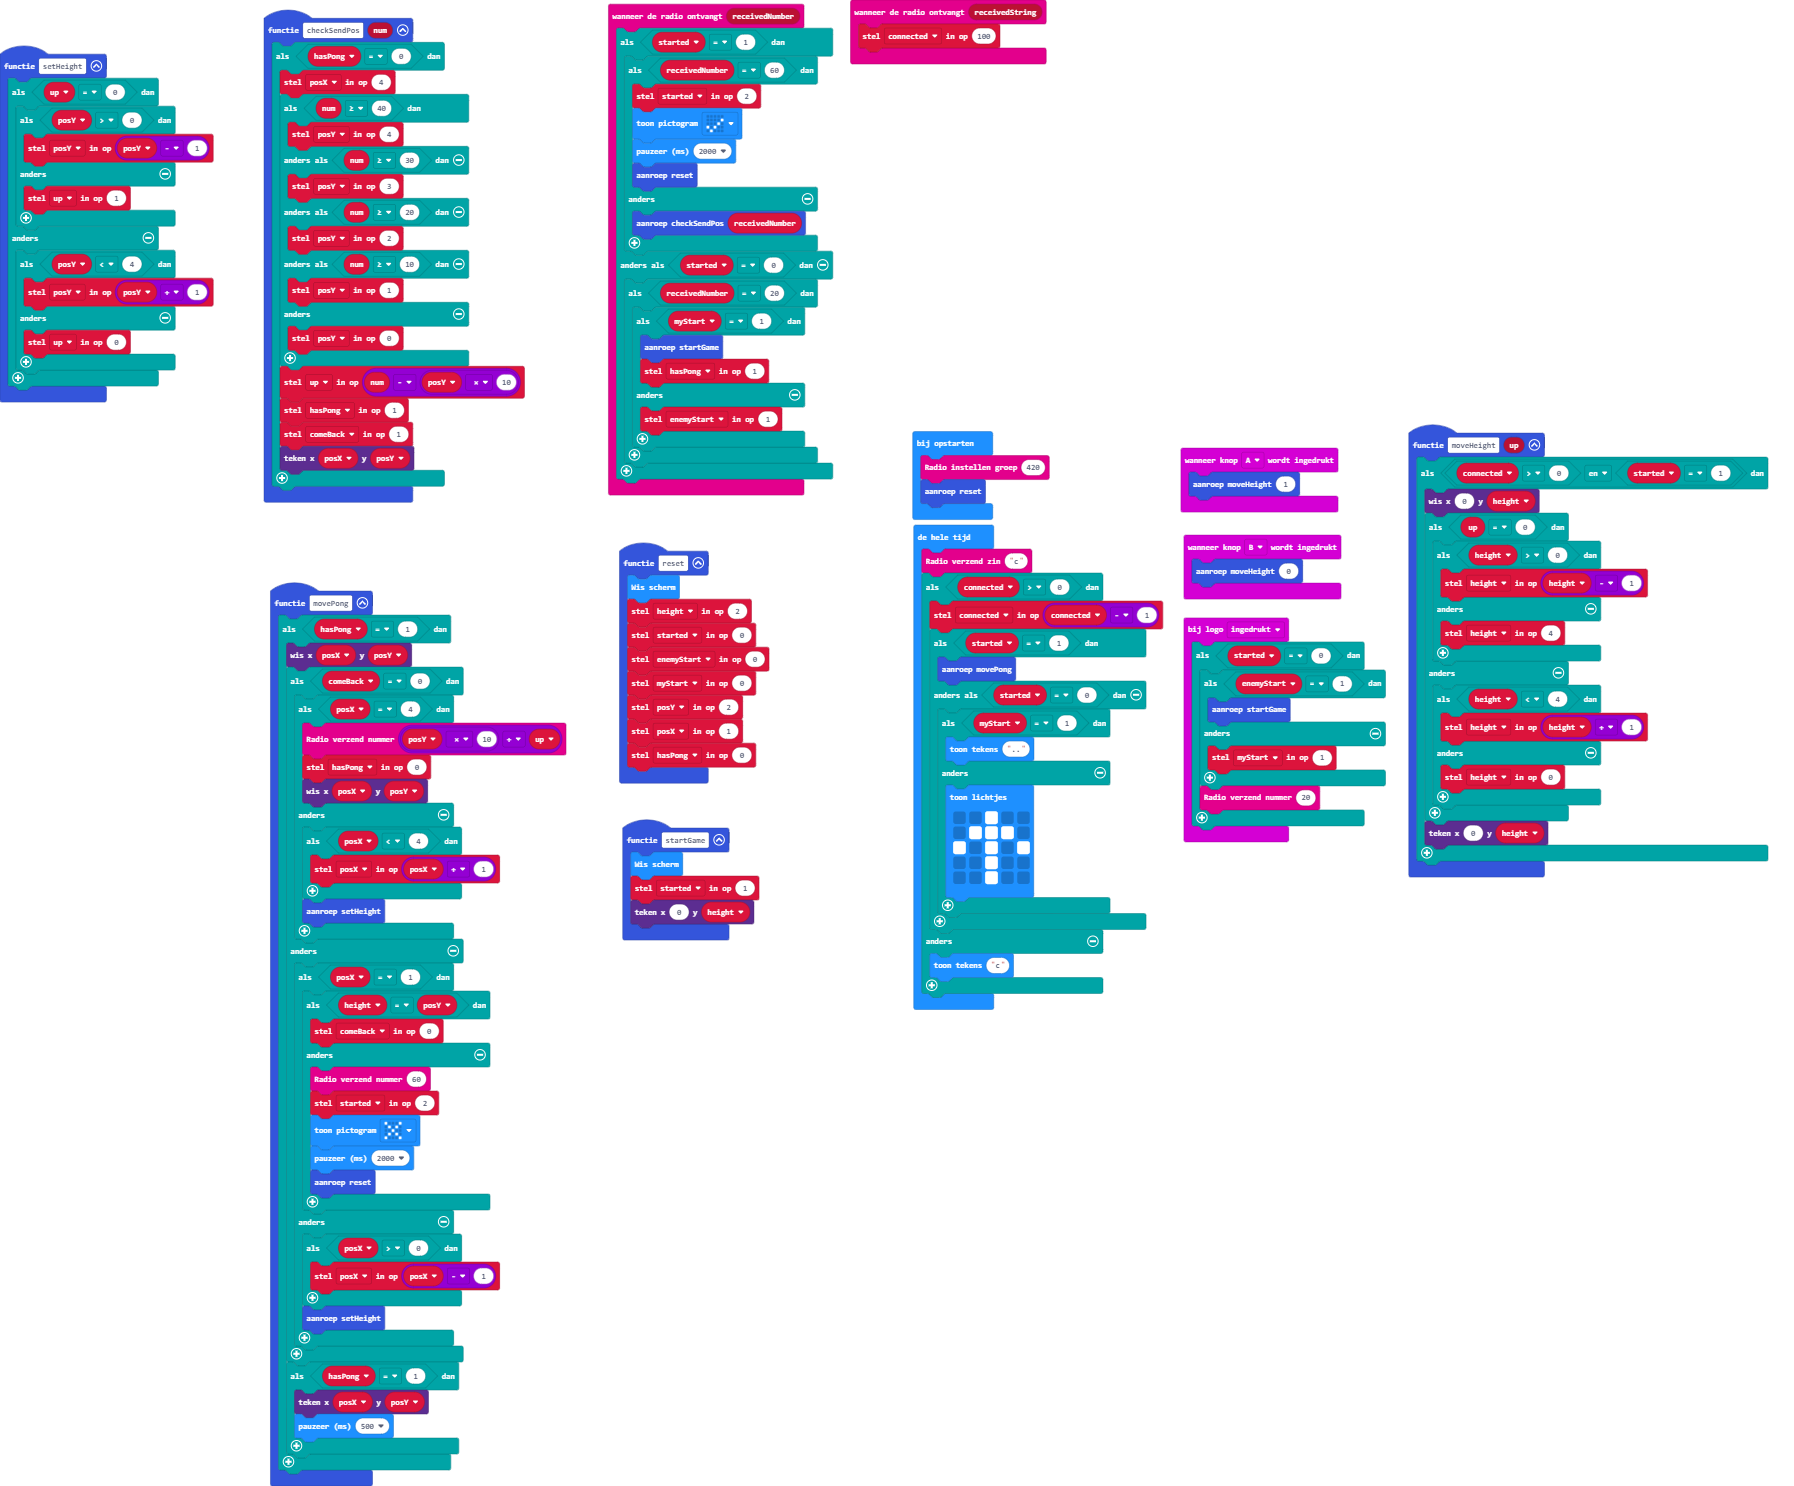
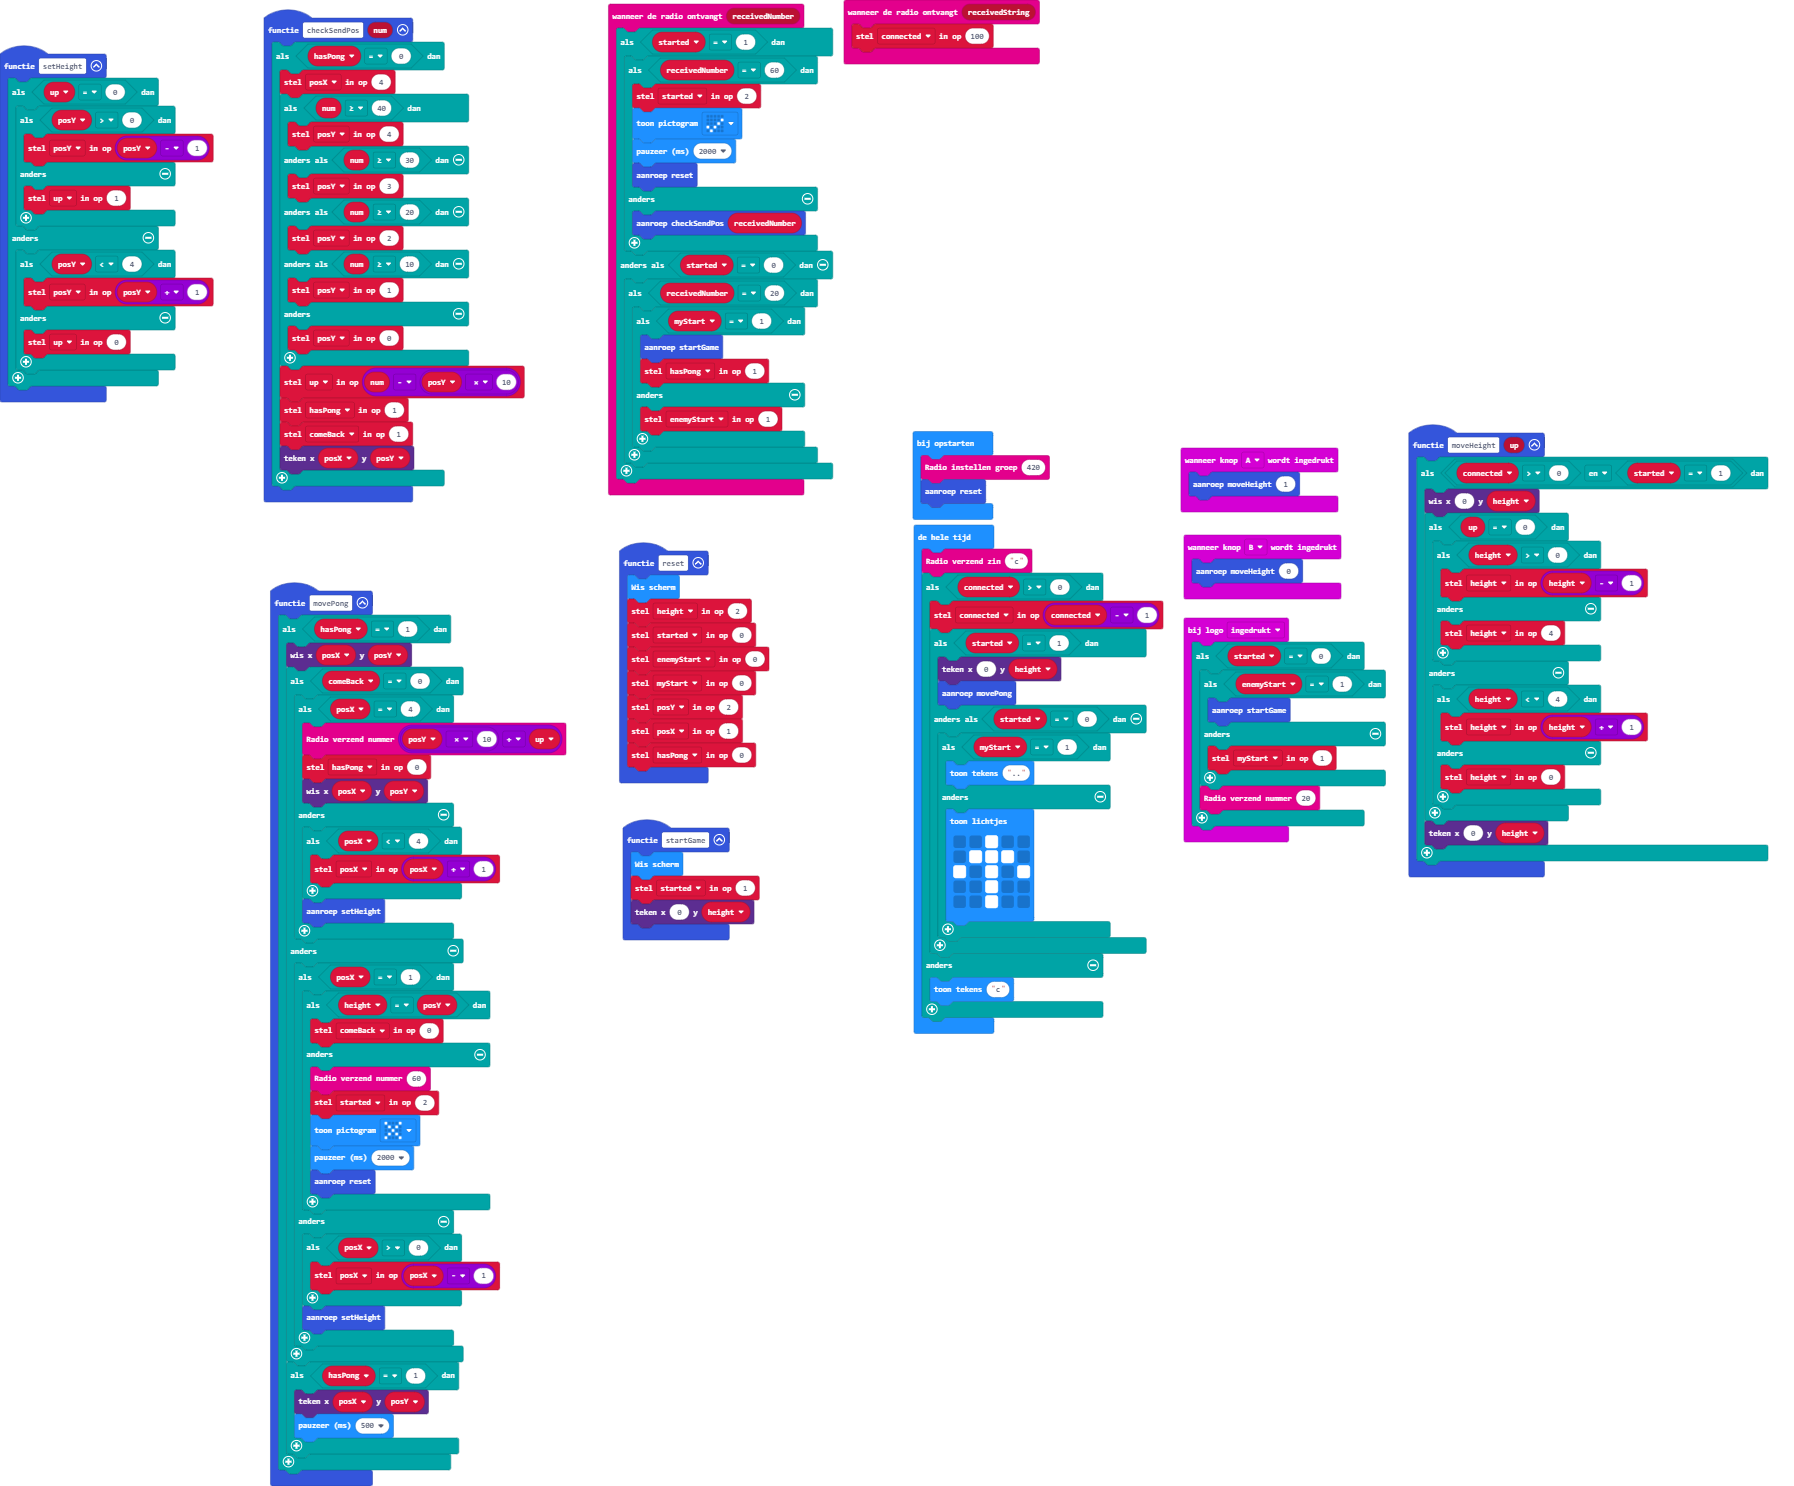
bug fix

diff --git a/main.ts b/main.ts
@@ -162,6 +162,7 @@ basic.forever(function () {
     if (connected > 0) {
         connected = connected - 1
         if (started == 1) {
+            led.plot(0, height)
             movePong()
         } else if (started == 0) {
             if (myStart == 1) {
